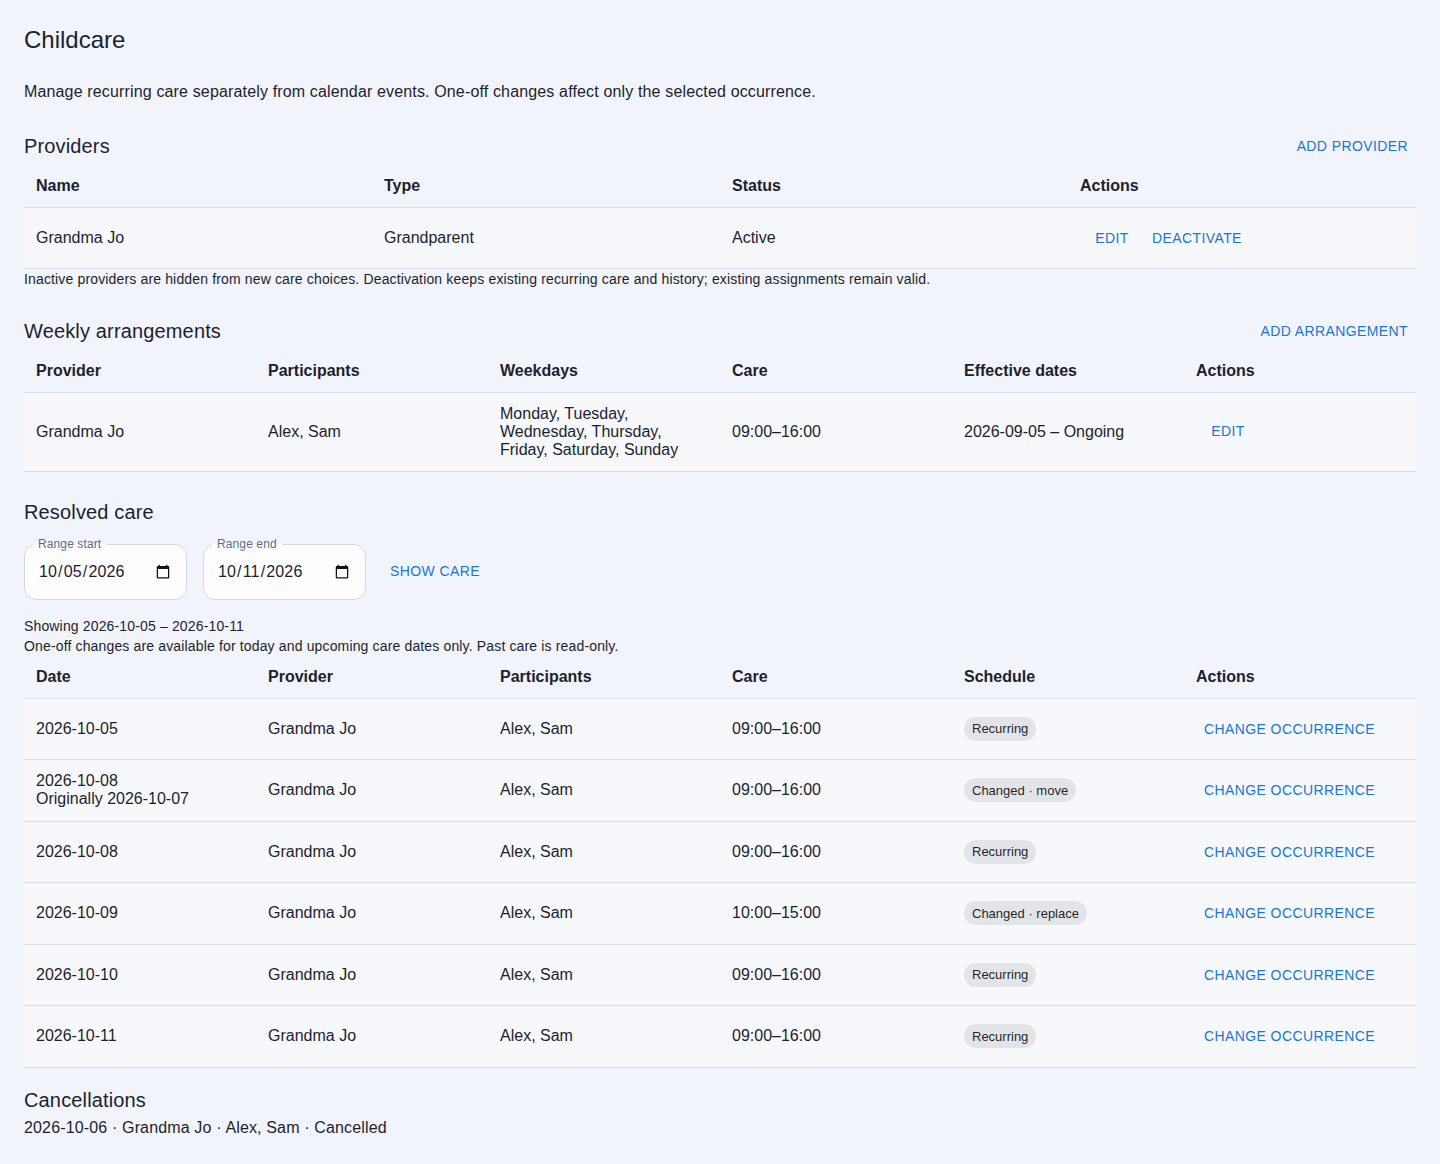
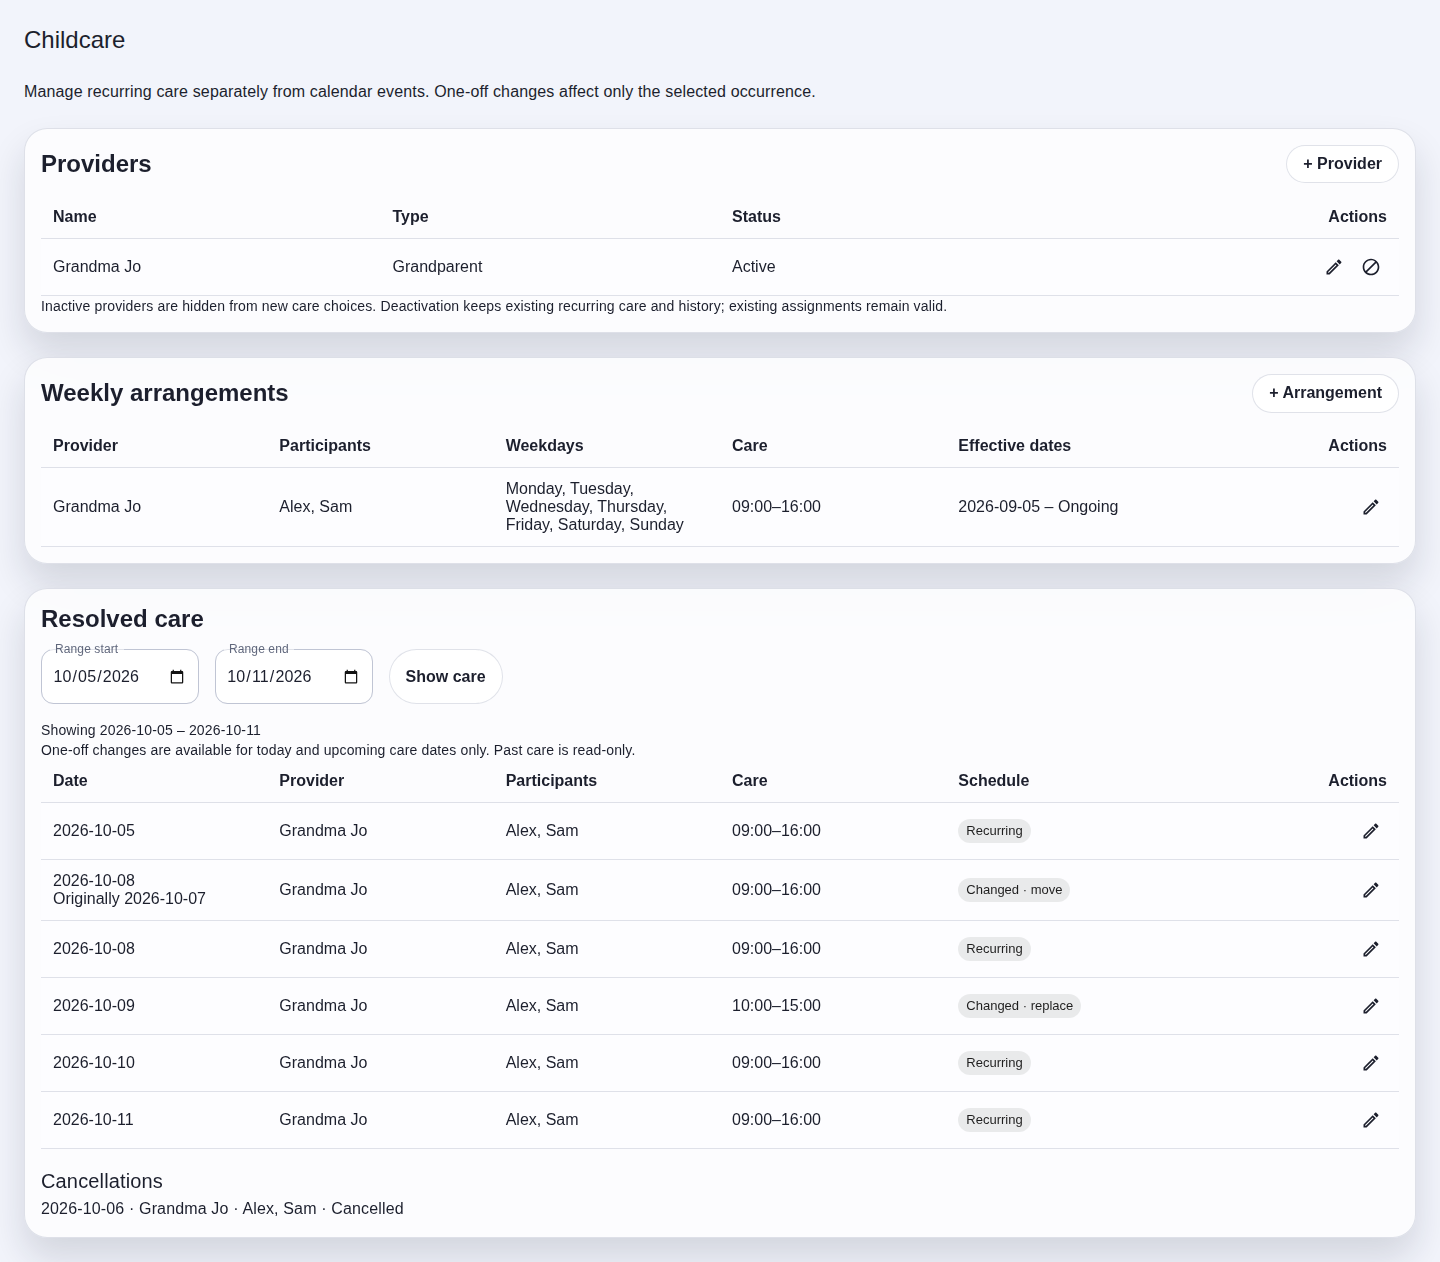
Match Childcare grids and controls to existing Settings styling

diff --git a/frontend/src/features/settings/components/ChildcareSettings.tsx b/frontend/src/features/settings/components/ChildcareSettings.tsx
@@ -1,5 +1,8 @@
 import { useCallback, useEffect, useRef, useState } from "react";
 import { Alert, Box, Button, Checkbox, Chip, FormControlLabel, MenuItem, Stack, Typography } from "@mui/material";
+import BlockIcon from "@mui/icons-material/Block";
+import CheckCircleOutlineIcon from "@mui/icons-material/CheckCircleOutlineOutlined";
+import EditOutlinedIcon from "@mui/icons-material/EditOutlined";
 import type { FamilyMember } from "../../../types/family";
 import { DialogActionsBar, DialogContentPanel, DialogHeader, FormField, GlassDialog, GradientButton } from "../../../shared/ui/GlassFormDialog";
 
@@ -141,13 +144,15 @@ export function ChildcareSettings({ householdId, members, request }: {
   };
   const occurrenceList = (items: ChildcareOccurrence[], editable = false) => items.length ? (
     <div className="table-scroll"><table className="settings-table" aria-label={editable ? "Childcare occurrences" : "Childcare preview"}>
-      <thead><tr><th>Date</th><th>Provider</th><th>Participants</th><th>Care</th><th>Schedule</th>{editable && <th>Actions</th>}</tr></thead>
+      <thead><tr><th>Date</th><th>Provider</th><th>Participants</th><th>Care</th><th>Schedule</th>{editable && <th className="actions-column">Actions</th>}</tr></thead>
       <tbody>{items.map((item) => <tr key={item.id}>
         <td>{item.date}{item.date !== item.originalDate && <div>Originally {item.originalDate}</div>}</td>
         <td>{providerName(item.providerId)}</td><td>{participantNames(item.childIds)}</td><td>{timingText(item)}</td>
         <td><Chip size="small" label={item.overrideAction ? `Changed · ${item.overrideAction}` : "Recurring"} /></td>
-        {editable && <td>{item.date >= today()
-          ? <Button disabled={disabled} onClick={() => openOverride(item)} aria-label={`Change care on ${item.date} for ${providerName(item.providerId)}`}>Change occurrence</Button>
+        {editable && <td className="actions-cell">{item.date >= today()
+          ? <div className="icon-actions"><button type="button" className="icon-button compact-icon-button" disabled={disabled}
+            onClick={() => openOverride(item)} aria-label={`Change care on ${item.date} for ${providerName(item.providerId)}`}
+            title="Change occurrence"><EditOutlinedIcon fontSize="small" /></button></div>
           : <Typography variant="body2">History · read only</Typography>}</td>}
       </tr>)}</tbody>
     </table></div>
@@ -160,49 +165,59 @@ export function ChildcareSettings({ householdId, members, request }: {
       setError(""); void load(loadedRange);
     }}>Retry</Button> : undefined}>{error}</Alert>}
     {loading && <Typography role="status">Loading childcare…</Typography>}
-    <Box component="section">
-      <Stack direction="row" sx={{ justifyContent: "space-between", alignItems: "center" }}>
-        <Typography variant="h6" component="h3">Providers</Typography>
-        <Button disabled={disabled} onClick={() => { setError(""); setProvider({ name: "", type: "grandparent" }); }}>Add provider</Button>
-      </Stack>
+    <section className="settings-card">
+      <div className="section-toolbar">
+        <h2>Providers</h2>
+        <button type="button" className="primary-pill no-wrap-button" aria-label="Add provider" disabled={disabled}
+          onClick={() => { setError(""); setProvider({ name: "", type: "grandparent" }); }}>+ Provider</button>
+      </div>
       {!loading && !data.providers.length && <Typography>No providers yet. Add a provider before creating an arrangement.</Typography>}
       {!!data.providers.length && <div className="table-scroll"><table className="settings-table" aria-label="Childcare providers">
-        <thead><tr><th>Name</th><th>Type</th><th>Status</th><th>Actions</th></tr></thead>
+        <thead><tr><th>Name</th><th>Type</th><th>Status</th><th className="actions-column">Actions</th></tr></thead>
         <tbody>{data.providers.map((item) => <tr key={item.id}>
           <td>{item.name}</td><td>{providerTypes.find(([value]) => value === item.type)?.[1] ?? item.type}</td>
           <td>{item.active ? "Active" : "Inactive"}</td>
-          <td><Button disabled={disabled} aria-label={`Edit provider ${item.name}`} onClick={() => { setError(""); setProvider(item); }}>Edit</Button>
-            <Button disabled={disabled} onClick={() => void mutate("providers", "PUT", { ...item, active: !item.active })}>
-              {item.active ? "Deactivate" : "Reactivate"}
-            </Button></td>
+          <td className="actions-cell"><div className="icon-actions">
+            <button type="button" className="icon-button compact-icon-button" disabled={disabled}
+              aria-label={`Edit provider ${item.name}`} title="Edit provider" onClick={() => { setError(""); setProvider(item); }}>
+              <EditOutlinedIcon fontSize="small" />
+            </button>
+            <button type="button" className="icon-button compact-icon-button" disabled={disabled}
+              aria-label={item.active ? "Deactivate" : "Reactivate"} title={item.active ? "Deactivate" : "Reactivate"}
+              onClick={() => void mutate("providers", "PUT", { ...item, active: !item.active })}>
+              {item.active ? <BlockIcon fontSize="small" /> : <CheckCircleOutlineIcon fontSize="small" />}
+            </button>
+          </div></td>
         </tr>)}</tbody>
       </table></div>}
       <Typography variant="body2">Inactive providers are hidden from new care choices. Deactivation keeps existing recurring care and history; existing assignments remain valid.</Typography>
-    </Box>
-    <Box component="section">
-      <Stack direction="row" sx={{ justifyContent: "space-between", alignItems: "center" }}>
-        <Typography variant="h6" component="h3">Weekly arrangements</Typography>
-        <Button disabled={disabled || !members.length || !data.providers.some((item) => item.active)} onClick={() => {
+    </section>
+    <section className="settings-card">
+      <div className="section-toolbar">
+        <h2>Weekly arrangements</h2>
+        <button type="button" className="primary-pill no-wrap-button" aria-label="Add arrangement"
+          disabled={disabled || !members.length || !data.providers.some((item) => item.active)} onClick={() => {
           setError(""); setPreview(null);
           setDraft({ providerId: data.providers.find((item) => item.active)!.id, childIds: [], weekdays: [],
             allDay: true, startTime: null, endTime: null, startDate: today(), endDate: null });
-        }}>Add arrangement</Button>
-      </Stack>
+        }}>+ Arrangement</button>
+      </div>
       {!loading && !data.arrangements.length && <Typography>No weekly arrangements yet.</Typography>}
       {!!data.arrangements.length && <div className="table-scroll"><table className="settings-table" aria-label="Childcare arrangements">
-        <thead><tr><th>Provider</th><th>Participants</th><th>Weekdays</th><th>Care</th><th>Effective dates</th><th>Actions</th></tr></thead>
+        <thead><tr><th>Provider</th><th>Participants</th><th>Weekdays</th><th>Care</th><th>Effective dates</th><th className="actions-column">Actions</th></tr></thead>
         <tbody>{data.arrangements.map((item) => <tr key={item.id}>
           <td>{providerName(item.providerId)}</td><td>{participantNames(item.childIds)}</td>
           <td>{item.weekdays.map((day) => weekdays[day - 1]).join(", ")}</td><td>{timingText(item)}</td>
           <td>{item.startDate} – {item.endDate ?? "Ongoing"}</td>
-          <td><Button disabled={disabled} aria-label={`Edit arrangement for ${providerName(item.providerId)}`} onClick={() => {
+          <td className="actions-cell"><div className="icon-actions"><button type="button" className="icon-button compact-icon-button"
+            disabled={disabled} aria-label={`Edit arrangement for ${providerName(item.providerId)}`} title="Edit arrangement" onClick={() => {
             setError(""); setDraft(item); setPreview(null);
-          }}>Edit</Button></td>
+          }}><EditOutlinedIcon fontSize="small" /></button></div></td>
         </tr>)}</tbody>
       </table></div>}
-    </Box>
-    <Box component="section">
-      <Typography variant="h6" component="h3">Resolved care</Typography>
+    </section>
+    <section className="settings-card">
+      <div className="section-toolbar"><h2>Resolved care</h2></div>
       <Stack component="form" direction={{ xs: "column", sm: "row" }} spacing={2} sx={{ my: 2 }} onSubmit={(event) => {
         event.preventDefault();
         if (!disabled && validRange(range.startDate, range.endDate)) { setError(""); void load(range); }
@@ -211,7 +226,7 @@ export function ChildcareSettings({ householdId, members, request }: {
           slotProps={{ inputLabel: { shrink: true } }} onChange={(event) => { setRange({ ...range, startDate: event.target.value }); setPreview(null); }} />
         <FormField label="Range end" type="date" value={range.endDate} disabled={disabled}
           slotProps={{ inputLabel: { shrink: true } }} onChange={(event) => { setRange({ ...range, endDate: event.target.value }); setPreview(null); }} />
-        <Button type="submit" disabled={disabled || !validRange(range.startDate, range.endDate)}>Show care</Button>
+        <button type="submit" className="primary-pill no-wrap-button" disabled={disabled || !validRange(range.startDate, range.endDate)}>Show care</button>
       </Stack>
       {!validRange(range.startDate, range.endDate) && <Alert severity="warning">Choose an ordered range of at most 366 days.</Alert>}
       <Typography variant="body2">Showing {loadedRange.startDate} – {loadedRange.endDate}</Typography>
@@ -224,7 +239,7 @@ export function ChildcareSettings({ householdId, members, request }: {
           {item.originalDate} · {providerName(arrangement.providerId)} · {participantNames(arrangement.childIds)} · Cancelled
         </Typography>;
       })}</Stack> : <Typography>No cancellations in this range.</Typography>)}
-    </Box>
+    </section>
 
     <GlassDialog open={!!provider} onClose={() => { if (!busy) setProvider(null); }} aria-labelledby="childcare-provider-title" maxWidth="sm" fullWidth>
       {provider && <Box component="form" onSubmit={(event) => {

diff --git a/frontend/src/features/settings/components/ChildcareSettings.stories.tsx b/frontend/src/features/settings/components/ChildcareSettings.stories.tsx
@@ -121,6 +121,45 @@ export default meta;
 type Story = StoryObj<typeof ChildcareStory>;
 
 export const ProvidersAndCare: Story = {};
+export const SettingsGridStyling: Story = {
+  play: async ({ canvasElement }) => {
+    const canvas = within(canvasElement);
+    await canvas.findByRole("table", { name: "Childcare occurrences" });
+    for (const heading of ["Providers", "Weekly arrangements", "Resolved care"]) {
+      const title = canvas.getByRole("heading", { name: heading, level: 2 });
+      await expect(title.parentElement).toHaveClass("section-toolbar");
+      await expect(title.closest("section")).toHaveClass("settings-card");
+    }
+    for (const [name, text] of [["Add provider", "+ Provider"], ["Add arrangement", "+ Arrangement"]]) {
+      const add = canvas.getByRole("button", { name });
+      await expect(add).toHaveClass("primary-pill", "no-wrap-button");
+      await expect(add).toHaveTextContent(text);
+      await expect(getComputedStyle(add).whiteSpace).toBe("nowrap");
+    }
+    await expect(canvas.getByRole("button", { name: "Show care" })).toHaveClass("primary-pill", "no-wrap-button");
+    for (const name of ["Childcare providers", "Childcare arrangements", "Childcare occurrences"]) {
+      const table = canvas.getByRole("table", { name });
+      await expect(table).toHaveClass("settings-table");
+      const actions = within(table).getByRole("columnheader", { name: "Actions" });
+      await expect(actions).toHaveClass("actions-column");
+      await expect(getComputedStyle(actions).textAlign).toBe("right");
+      for (const button of within(table).getAllByRole("button")) {
+        await expect(button).toHaveClass("icon-button", "compact-icon-button");
+        await expect(button.textContent).toBe("");
+        await expect(getComputedStyle(button).width).toBe("32px");
+        await expect(button.parentElement).toHaveClass("icon-actions");
+        await expect(getComputedStyle(button.parentElement!).justifyContent).toBe("flex-end");
+        await expect(button.closest("td")).toHaveClass("actions-cell");
+        await expect(getComputedStyle(button.closest("td")!).textAlign).toBe("right");
+        await expect(button.querySelector("svg")).toHaveAttribute("aria-hidden", "true");
+      }
+    }
+    for (const name of ["Edit provider Grandma Jo", "Edit arrangement for Grandma Jo", `Change care on ${date()} for Grandma Jo`]) {
+      await expect(canvas.getByRole("button", { name }).querySelector("svg")).toHaveAttribute("data-testid", "EditOutlinedIcon");
+    }
+    await expect(canvas.getByRole("button", { name: "Deactivate" }).querySelector("svg")).toHaveAttribute("data-testid", "BlockIcon");
+  },
+};
 export const LoadingError: Story = { args: { fail: true } };
 export const LocalDateDefaults: Story = {
   play: async ({ canvasElement }) => {
@@ -167,6 +206,8 @@ export const ProviderLifecycle: Story = {
     await waitFor(() => expect(row.getByRole("button", { name: "Deactivate" })).toBeEnabled());
     await userEvent.click(row.getByRole("button", { name: "Deactivate" }));
     await row.findByText("Inactive");
+    await expect(row.getByRole("button", { name: "Reactivate" })).toHaveClass("icon-button", "compact-icon-button");
+    await expect(row.getByRole("button", { name: "Reactivate" }).querySelector("svg")).toHaveAttribute("data-testid", "CheckCircleOutlineOutlinedIcon");
     await waitFor(() => expect(row.getByRole("button", { name: "Reactivate" })).toBeEnabled());
     await userEvent.click(row.getByRole("button", { name: "Reactivate" }));
     await row.findByText("Active");

diff --git a/CHANGELOG.md b/CHANGELOG.md
@@ -2,6 +2,7 @@
 
 ## Unreleased
 
+- Aligned Childcare Settings with the other Settings grids using shared card styling, right-aligned icon actions, and styled add buttons. Updated screenshot: `/home/runner/work/family-butler-v2/family-butler-v2/docs/screenshots/settings-childcare.png`.
 - Added Settings → Childcare for provider editing/deactivation/reactivation, weekly all-day/timed arrangements with multiple children, non-persisting server-resolved previews, and single-occurrence cancellations/replacements/moves. Existing installations must rerun the childcare SQL migration. Updated UI screenshot: `/home/runner/work/family-butler-v2/family-butler-v2/docs/screenshots/settings-childcare.png`.
 - Added household-scoped childcare persistence, owner-based RLS, and an authenticated API for weekly all-day/timed arrangements with multiple children and one-off cancellation, replacement, and move overrides. Effective occurrences resolve server-side from persisted data, separately from events; UI, calendar, and agent integration remain planned.
 - Matched time-picker background, corner radius, text, labels, and borders with other dialog fields. Updated screenshot: `/home/runner/work/family-butler-v2/family-butler-v2/docs/screenshots/event-dialog-time-fields-dark.png`.
